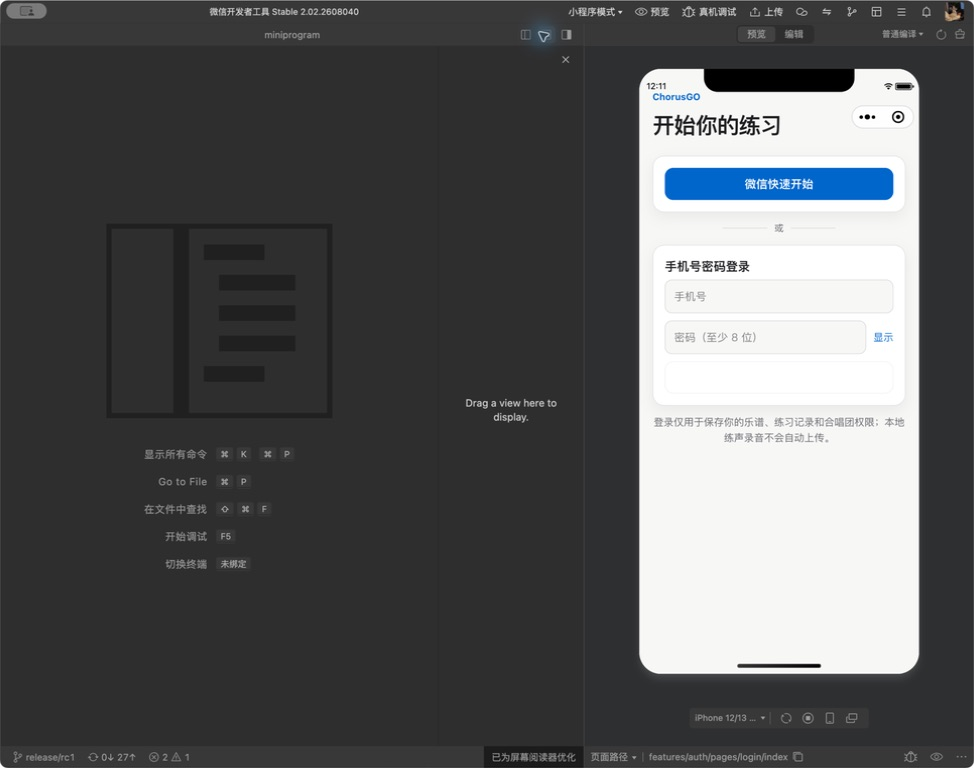
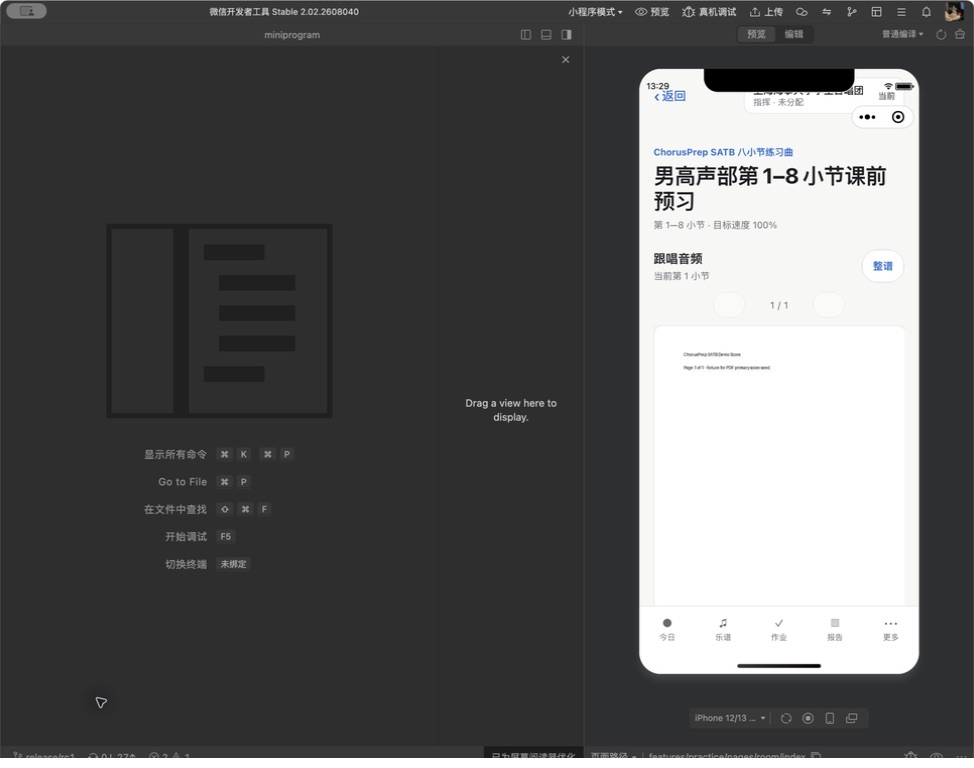
Improve ChorusGO showcase visuals

diff --git a/public/styles.css b/public/styles.css
@@ -844,9 +844,15 @@ button { color: inherit; }
   display: block;
   width: 100%;
   height: 54px;
-  color: inherit;
+  color: #d8c28f;
   font-family: Georgia, "Times New Roman", serif;
   font-size: clamp(22px, 3vw, 42px);
+  transition: color .25s;
+}
+
+.contact-item:hover .wechat-canvas,
+.contact-item:focus-visible .wechat-canvas {
+  color: #6d5527;
 }
 
 .copy-feedback {
